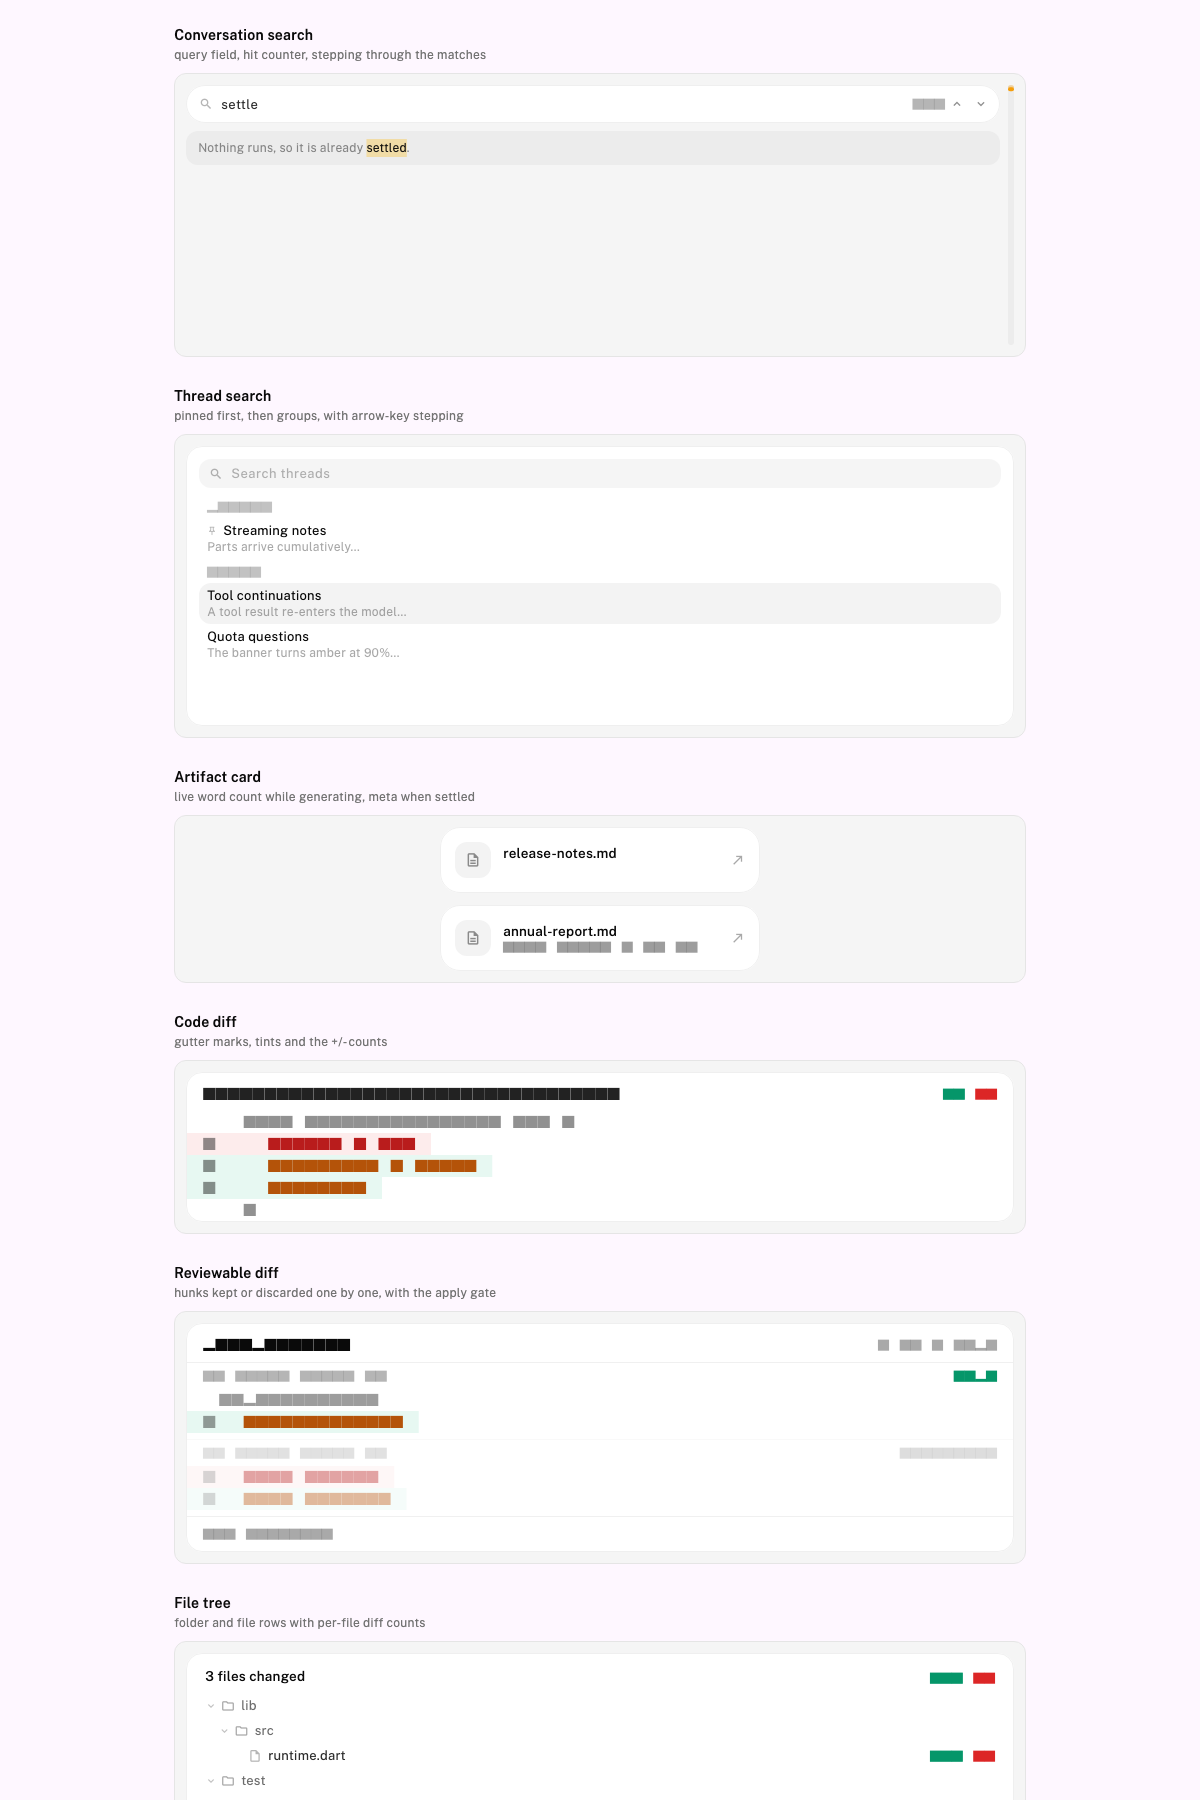
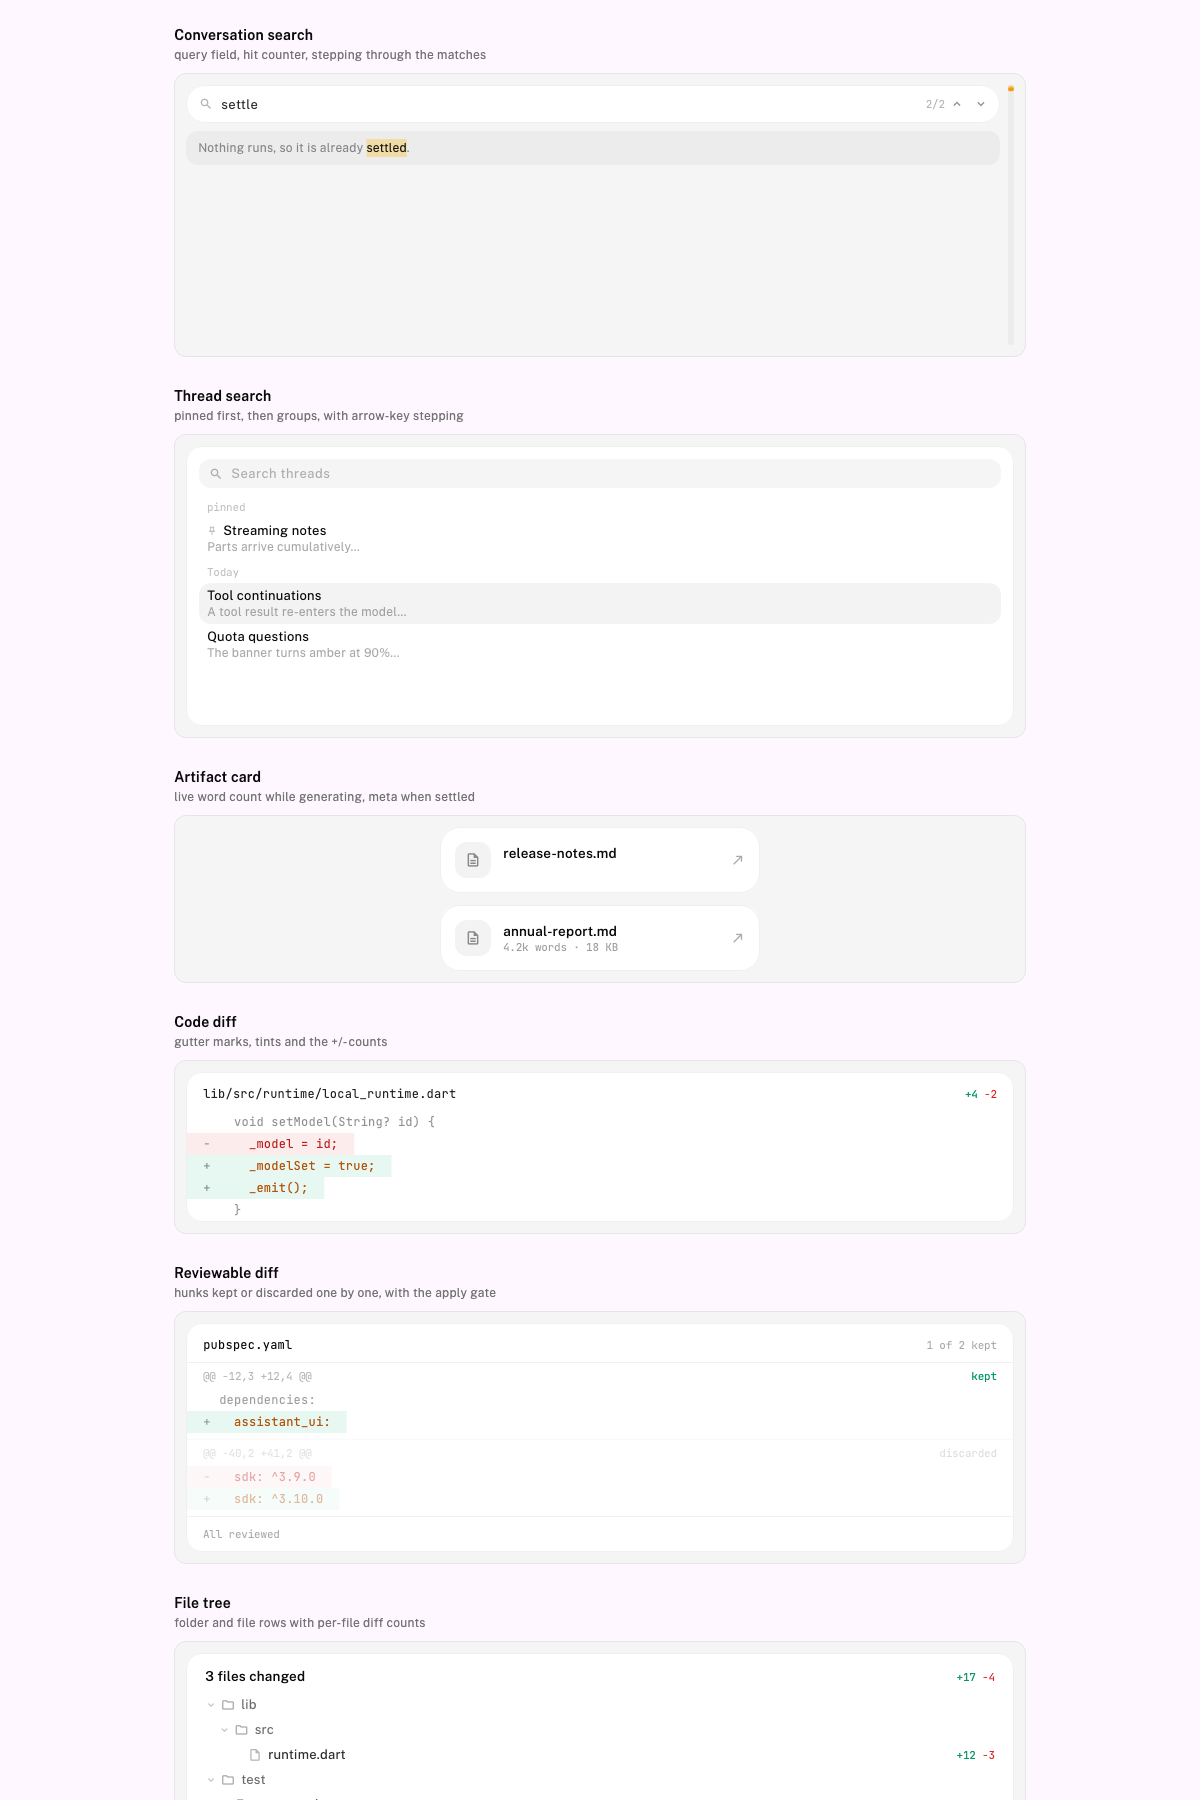
docs: the captures register the mono family the theme asks for
The theme names the generic `monospace` family, which the test binding has no
file for, so code and diff text came out as boxes. The capture registers the
bundled mono font under that name too.

diff --git a/example/tool/capture_gallery_test.dart b/example/tool/capture_gallery_test.dart
@@ -34,7 +34,10 @@ Future<void> _loadFonts() async {
       _flutterRootFromTool();
   final List<(String, String)> fonts = <(String, String)>[
     ('Public Sans', '../landing/assets/fonts/PublicSans[wght].ttf'),
+    // The theme asks for the generic `monospace` family, so register the file
+    // under that name as well as its own.
     ('JetBrains Mono', '../landing/assets/fonts/JetBrainsMono[wght].ttf'),
+    ('monospace', '../landing/assets/fonts/JetBrainsMono[wght].ttf'),
     if (flutterRoot != null)
       (
         'MaterialIcons',
